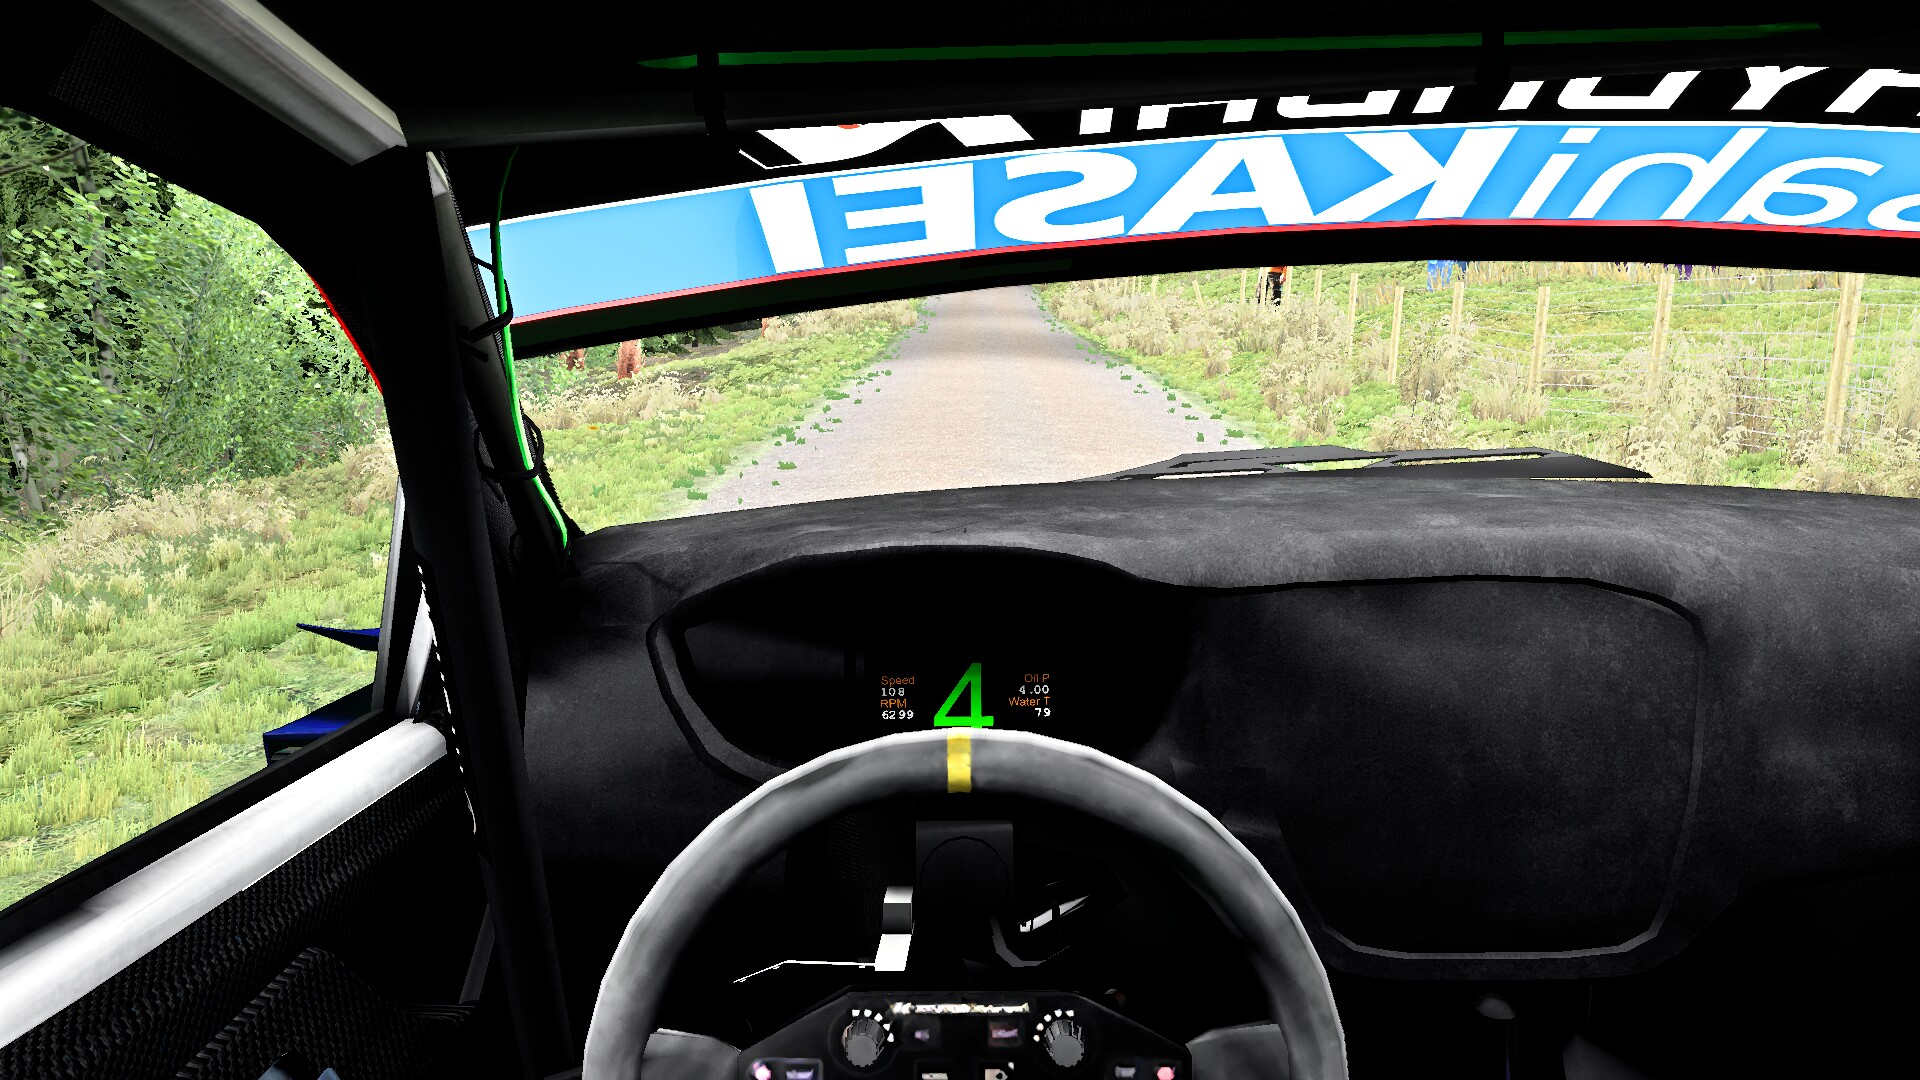
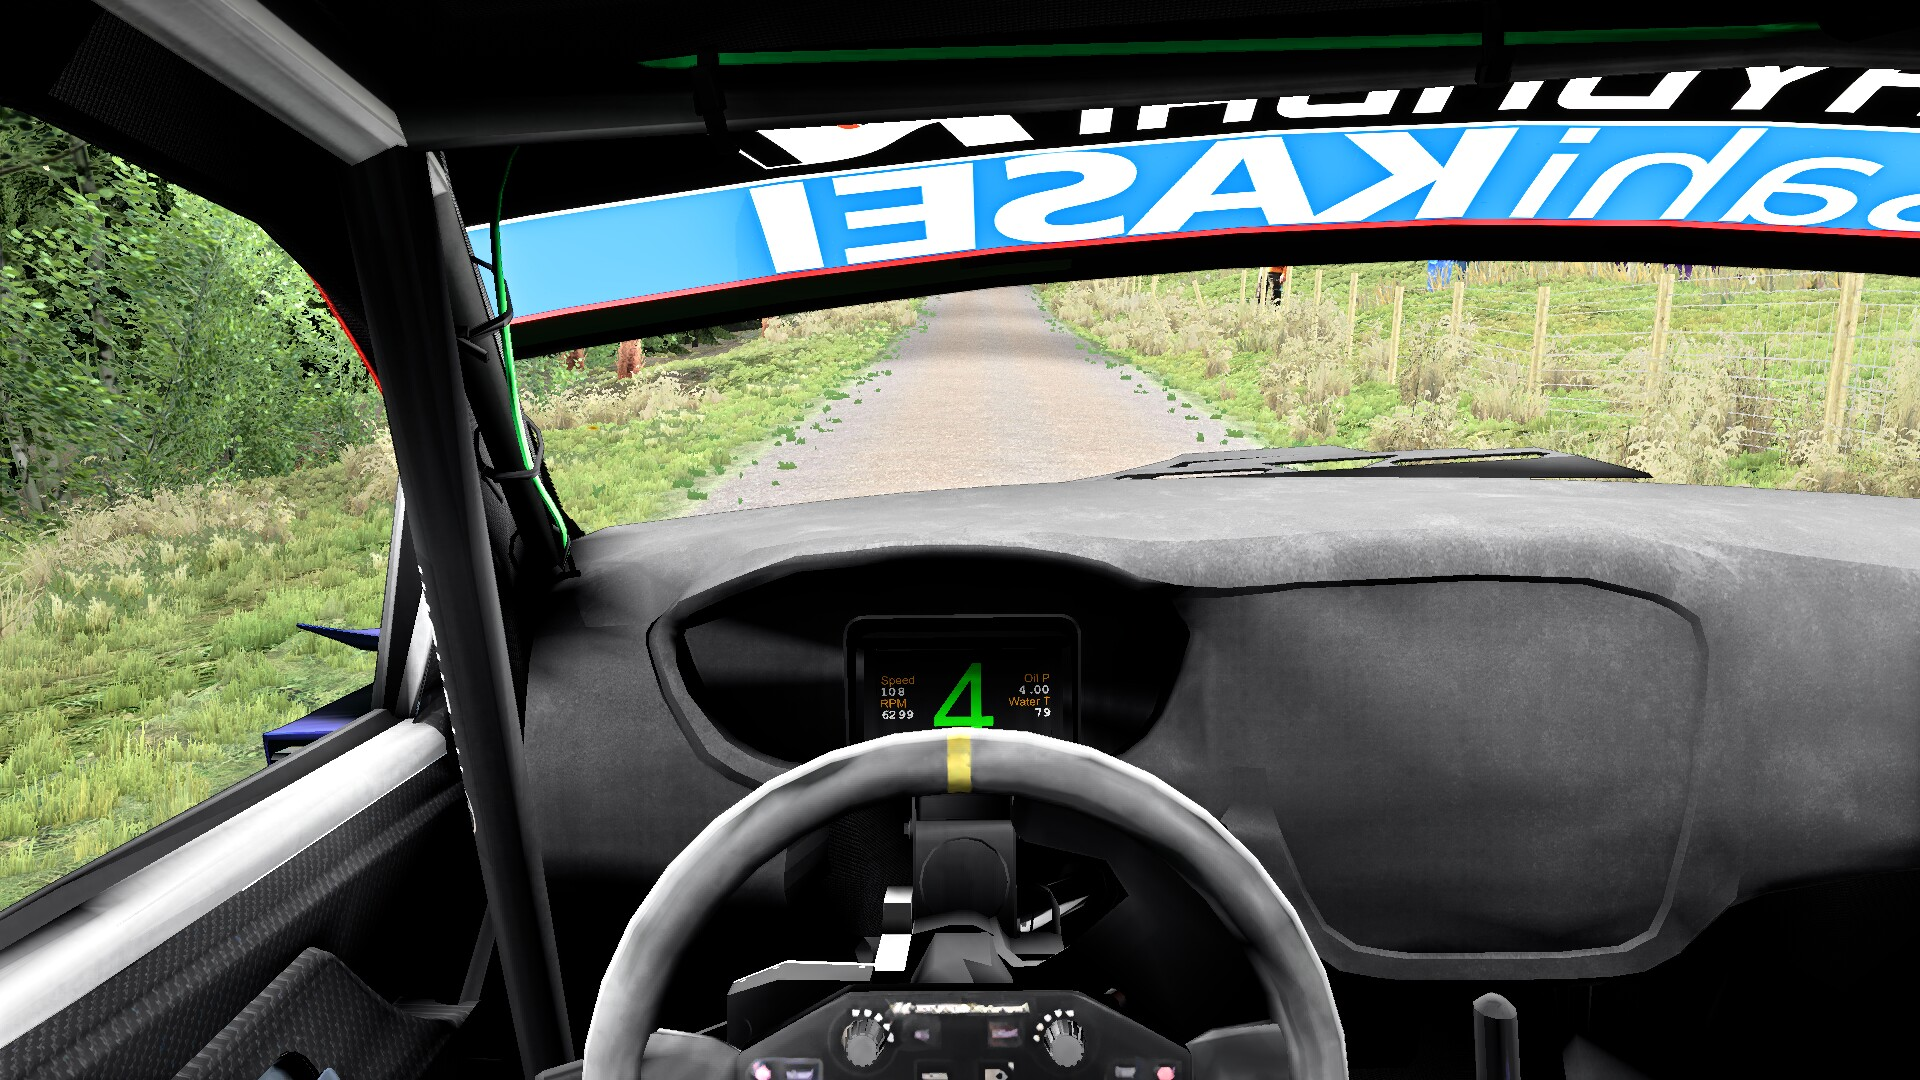
Reference shots: the 9 day cockpit shots re-rendered (cabin albedo and colour); the note marks the look as picked

diff --git a/notes/renderer.md b/notes/renderer.md
@@ -1334,7 +1334,7 @@ top 108 to 85 of 255 (no sheen 86). Cockpit reference shots 1 to 2.6 % RMSE by d
 0.02 to 0.04 %, outside shots byte-identical. The dash still reads blue-grey: near-black texels under the cabin's own
 exposure and the sky through the windscreen.
 
-Cabin albedo and colour (ours, 2026-11-12, `cabin_day_lit`; not yet picked by the user): the cabin textures' darks
+Cabin albedo and colour (ours, 2026-11-12, `cabin_day_lit`; picked by the user 2026-11-12): the cabin textures' darks
 decode at 2.2 to an albedo of 0.003 to 0.02, so dark dashes, wheels and door cards had no form and the cabin's
 exposure burnt the labels out. Now gamma 1.6 for them (`CABIN_GAMMA`; the dials keep 2.2), a soft floor of 0.012
 where a face's reflection stays in the car (`CABIN_INWARD`), and 0.7 of the window's and bounce light's colour taken
